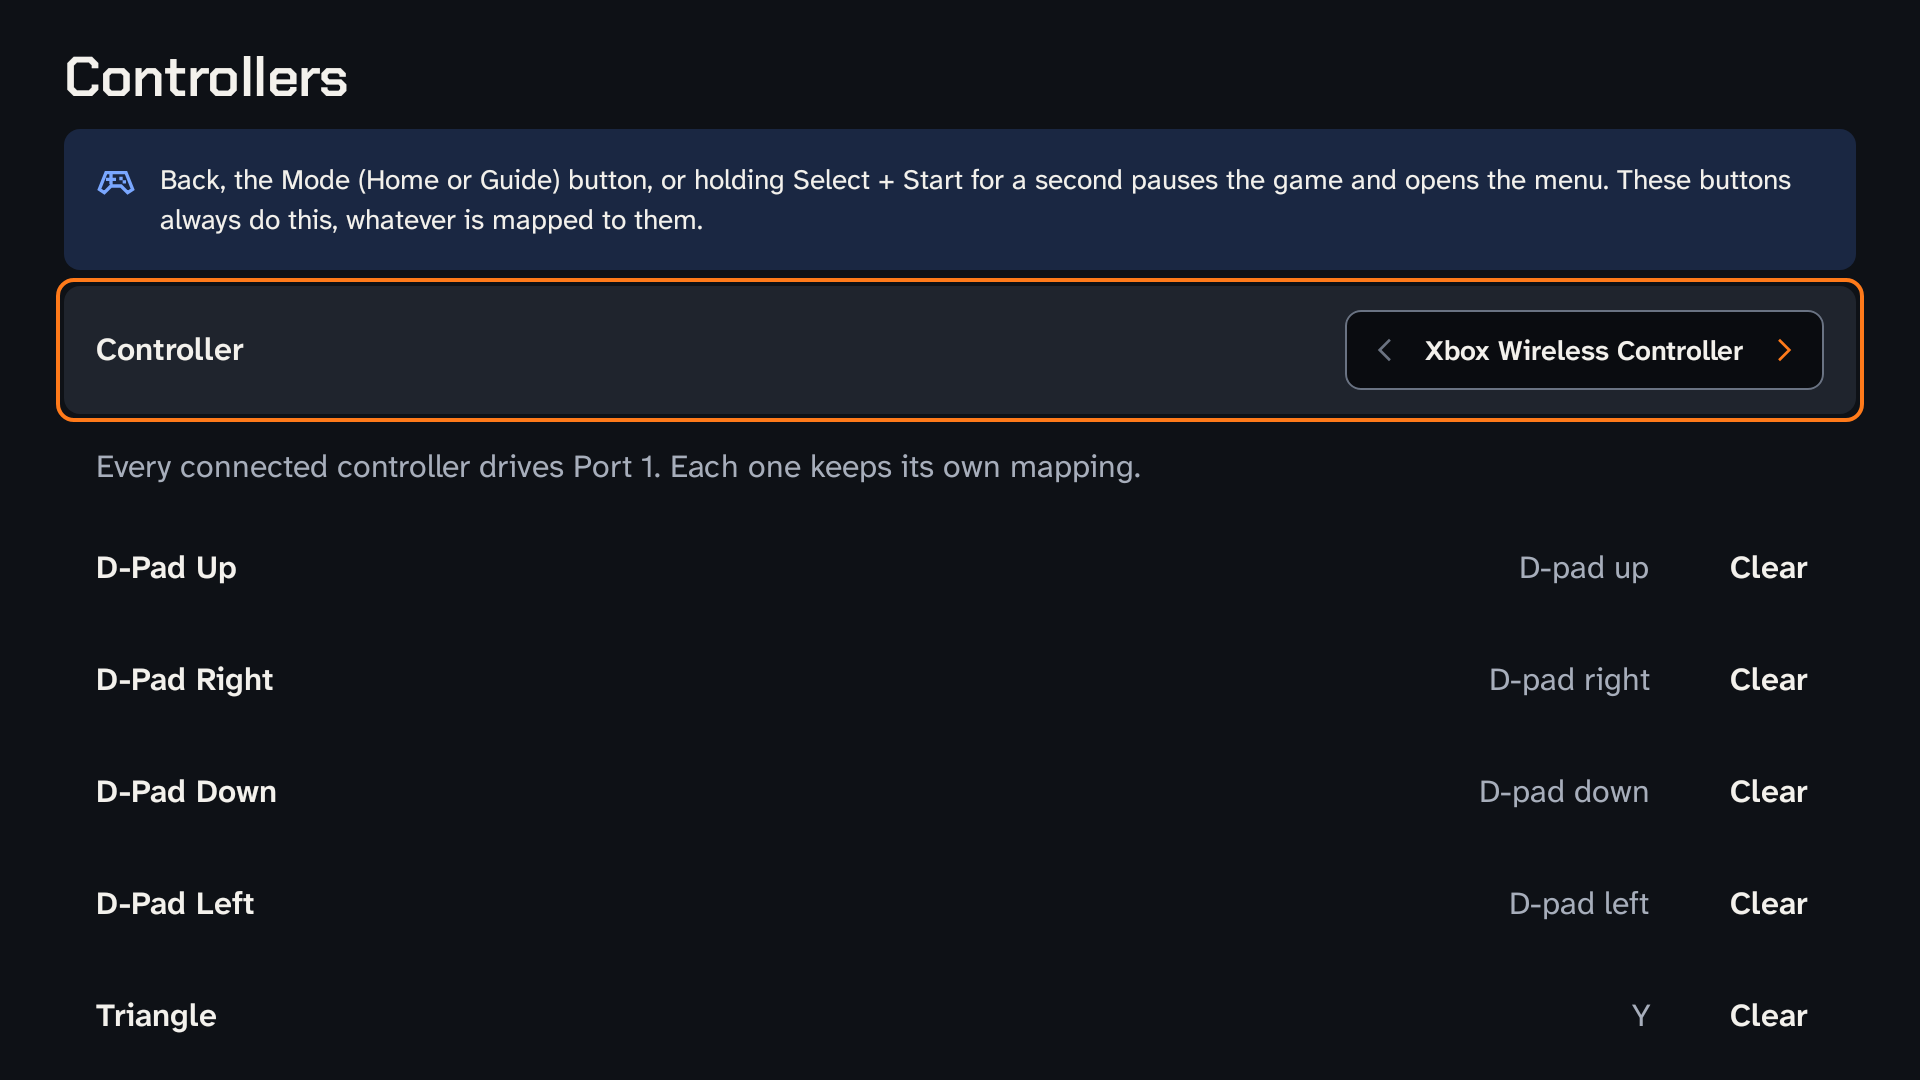
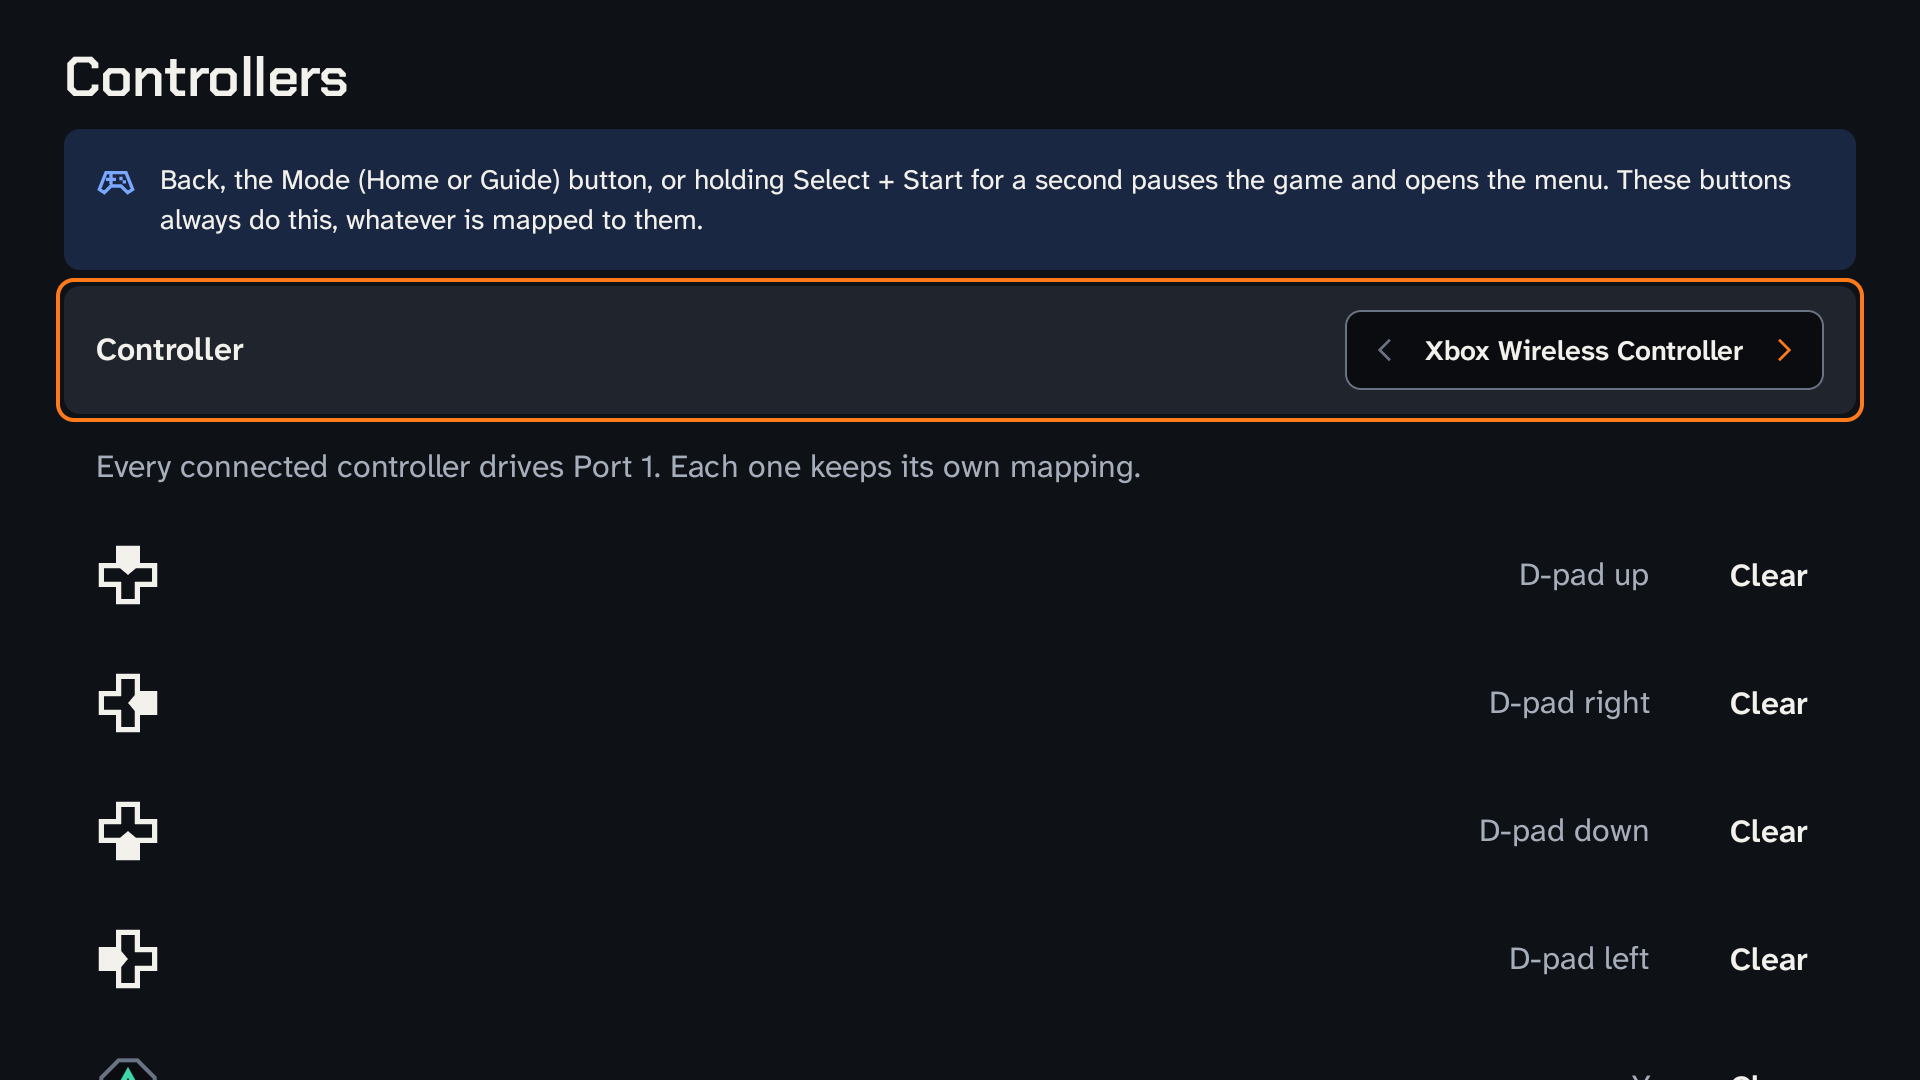
Android: the Controllers page shows PlayStation glyphs by default
- ControllersScreen: glyphs defaults to true, as the app shows them for the digital and analog controllers
- OrientationLayoutTest: the two-pad, one-pad-and-none and capture-prompt layouts run with glyphs, finding rows by
  their glyph's description; each keeps a text variant (…AsText) for the other controller types
- FocusAuditTest: the two-controller audit runs with glyphs, and as text
- docs/design-system/screenshots/controllers.png: re-rendered with the glyphs, at 960 x 540 dp; design-system.md
  says how

diff --git a/android/app/src/androidTest/java/io/github/ilyalissoboi/goosestation/ui/OrientationLayoutTest.kt b/android/app/src/androidTest/java/io/github/ilyalissoboi/goosestation/ui/OrientationLayoutTest.kt
@@ -295,11 +295,28 @@ class OrientationLayoutTest {
         limit: Int = 60,
     ) {
         repeat(limit) {
-            if (focusedHas(text)) return
+            if (focused()) return
             press(key)
             assertFocusedInView()
+    ) = pressUntil(key, "\"$text\"", limit) { focusedHas(text) }
+
+    /**
+     * Presses [key] until the Controllers page's row for the input [name] has the focus, checking each one it reaches
+     * is in view: found by its glyph's description with [glyphs], else by its words.
+     */
+    private fun pressUntilInput(
+        key: Key,
+        name: String,
+        glyphs: Boolean,
+    ) = pressUntil(key, name) { if (glyphs) focusedDescribedAs(name) else focusedHas(name) }
+
+    private fun pressUntil(
+        key: Key,
+        what: String,
+        limit: Int = 60,
+        focused: () -> Boolean,
         }
-        if (!focusedHas(text)) fail("$key never focused \"$text\"")
+        if (!focused()) fail("$key never focused $what")
     }
 
     private fun focusedText(): String = rule.onNode(isFocused()).fetchSemanticsNode().mergedText()
@@ -932,7 +949,13 @@ class OrientationLayoutTest {
     }
 
     @Test
-    fun controllersWithTwoPadsAndEveryInput() {
+    fun controllersWithTwoPadsAndEveryInput() = controllersWithTwoPads(glyphs = true)
+
+    // A controller type without glyphs: the inputs' names as words.
+    @Test
+    fun controllersWithTwoPadsAndEveryInputAsText() = controllersWithTwoPads(glyphs = false)
+
+    private fun controllersWithTwoPads(glyphs: Boolean) {
         eachConfig({
             var selected by remember { mutableStateOf(LONG_PAD.descriptor) }
             ControllersScreen(
@@ -968,9 +991,10 @@ class OrientationLayoutTest {
             assertTextsLaidOut()
             assertTrue(focusedHas(LONG_PAD.name))
 
-            pressUntilFocused(Key.DirectionDown, "Right Stick Right")
+            pressUntilInput(Key.DirectionDown, "Right Stick Right", glyphs)
             press(Key.DirectionRight)
             assertTrue(focusedHas("Clear"))
+                glyphs = glyphs,
             assertFocusedInView()
             press(Key.DirectionLeft)
             pressUntilFocused(Key.DirectionDown, "Analog mode")
@@ -1021,7 +1045,12 @@ class OrientationLayoutTest {
         rule.onAllNodes(isFocused() and hasContentDescription(name)).fetchSemanticsNodes().isNotEmpty()
 
     @Test
-    fun controllersWithOnePadAndNone() {
+    fun controllersWithOnePadAndNone() = onePadThenNone(glyphs = true)
+
+    @Test
+    fun controllersWithOnePadAndNoneAsText() = onePadThenNone(glyphs = false)
+
+    private fun onePadThenNone(glyphs: Boolean) {
         val pads = mutableStateOf(listOf(PAD))
         eachConfig({
             ControllersScreen(
@@ -1059,8 +1088,14 @@ class OrientationLayoutTest {
         }
     }
 
+                glyphs = glyphs,
     @Test
-    fun aCapturePromptFitsAndStaysInView() {
+    fun aCapturePromptFitsAndStaysInView() = capturePrompt(glyphs = true)
+
+    @Test
+    fun aCapturePromptFitsAndStaysInViewAsText() = capturePrompt(glyphs = false)
+
+    private fun capturePrompt(glyphs: Boolean) {
         val capturing: MutableState<String?> = mutableStateOf(null)
         eachConfig({
             ControllersScreen(
@@ -1083,7 +1118,7 @@ class OrientationLayoutTest {
             )
         }) {
             // The row that's lowest on screen once Down has scrolled to it: a capture there grows it at the bottom.
-            pressUntilFocused(Key.DirectionDown, "Right Stick Down")
+            pressUntilInput(Key.DirectionDown, "Right Stick Down", glyphs)
             press(Key.Enter)
             assertTextsLaidOut()
             assertTrue(focusedHas("Press the new button for Right Stick Down… Back cancels (5)"))
@@ -1098,6 +1133,7 @@ class OrientationLayoutTest {
         eachConfig({
             LibraryScreen(
                 games = emptyList(),
+                glyphs = glyphs,
                 gridView = true,
                 banners = emptyList(),
                 message = null,

diff --git a/android/app/src/androidTest/java/io/github/ilyalissoboi/goosestation/ui/FocusAuditTest.kt b/android/app/src/androidTest/java/io/github/ilyalissoboi/goosestation/ui/FocusAuditTest.kt
@@ -375,8 +375,14 @@ class FocusAuditTest {
     }
 
     @Test
-    fun controllersWithTwo() {
-        showControllers(PADS)
+    fun controllersWithTwo() = controllersWithTwo(glyphs = true)
+
+    // A controller type without glyphs: the inputs' names as words.
+    @Test
+    fun controllersWithTwoAsText() = controllersWithTwo(glyphs = false)
+
+    private fun controllersWithTwo(glyphs: Boolean) {
+        showControllers(PADS, glyphs)
         rule.assertControllerReady()
 
         // The controllers to pick from, open under the row.
@@ -698,25 +704,28 @@ class FocusAuditTest {
             )
         }
 
-    private fun showControllers(controllers: List<ConnectedController>) =
-        show {
-            ControllersScreen(
-                controllers = controllers,
-                labels = emptyMap(),
-                selected = controllers.firstOrNull()?.descriptor,
-                bindings = BINDINGS,
-                bindingsFor = controllers.firstOrNull()?.descriptor,
-                capturing = null,
-                secondsLeft = 0,
-                undoFor = null,
-                onSelect = {},
-                onCapture = {},
-                onCancelCapture = {},
-                onClear = {},
-                onUndo = {},
-                onDropUndo = {},
-                onReset = {},
-                onBack = {},
-            )
-        }
+    private fun showControllers(
+        controllers: List<ConnectedController>,
+        glyphs: Boolean = true,
+    ) = show {
+        ControllersScreen(
+            controllers = controllers,
+            labels = emptyMap(),
+            selected = controllers.firstOrNull()?.descriptor,
+            bindings = BINDINGS,
+            bindingsFor = controllers.firstOrNull()?.descriptor,
+            capturing = null,
+            secondsLeft = 0,
+            undoFor = null,
+            onSelect = {},
+            onCapture = {},
+            onCancelCapture = {},
+            onClear = {},
+            onUndo = {},
+            onDropUndo = {},
+            onReset = {},
+            onBack = {},
+            glyphs = glyphs,
+        )
+    }
 }

diff --git a/android/app/src/main/java/io/github/ilyalissoboi/goosestation/ui/ControllersScreen.kt b/android/app/src/main/java/io/github/ilyalissoboi/goosestation/ui/ControllersScreen.kt
@@ -71,6 +71,7 @@ private const val MENU_TRIGGERS =
  * Back go back ([onBack]); Back during a capture cancels it ([onCancelCapture]), as B is captured like any button.
  * After the bindings, the Hotkeys section lists the controller's [hotkeys], each a Select chord; a row's A or Enter
  * captures the button to hold Select with ([onCaptureHotkey]), and Clear and Undo work as on a binding.
+ * Port 1's inputs show as their PlayStation glyphs, unless not [glyphs] (a type outside [GLYPH_TYPES]): then as words.
  */
 @Composable
 fun ControllersScreen(
@@ -92,7 +93,7 @@ fun ControllersScreen(
     onBack: () -> Unit,
     hotkeys: List<PadBinding> = emptyList(),
     onCaptureHotkey: (String) -> Unit = {},
-    glyphs: Boolean = false,
+    glyphs: Boolean = true,
 ) {
     val first = remember { FocusRequester() }
     var focusInPage by remember { mutableStateOf(false) }

diff --git a/android/app/src/androidTest/java/io/github/ilyalissoboi/goosestation/ui/ControllersScreenTest.kt b/android/app/src/androidTest/java/io/github/ilyalissoboi/goosestation/ui/ControllersScreenTest.kt
@@ -95,6 +95,7 @@ class ControllersScreenTest {
         undoFor: String? = null,
         labels: Map<String, String> = emptyMap(),
         hotkeys: List<PadBinding> = emptyList(),
+        // Words, which most tests find the rows by, unless a test asks for the glyphs the page shows by default.
         glyphs: Boolean = false,
     ) {
         this.controllers = controllers

diff --git a/docs/design-system.md b/docs/design-system.md
@@ -37,8 +37,9 @@ source for it. When a value changes, change `tokens.json` and the implementation
 
 The Android app's screens, in [`docs/design-system/screenshots/`](design-system/screenshots/): rendered from the
 Compose code, off a device, at a handheld's 960 x 540 dp in landscape (the AYN Thor's) and a phone's 411 x 891 dp in
-portrait. The pause menu and its slot panel are from the emulator, a phone in landscape (914 x 411 dp), over Ace
-Combat 3. The orange outline is the focus, where a controller is.
+portrait. The Controllers page, with its PlayStation glyphs, is the page's composable alone at 960 x 540 dp too,
+rendered on the emulator. The pause menu and its slot panel are from the emulator, a phone in landscape (914 x 411
+dp), over Ace Combat 3. The orange outline is the focus, where a controller is.
 
 | | |
 | --- | --- |
